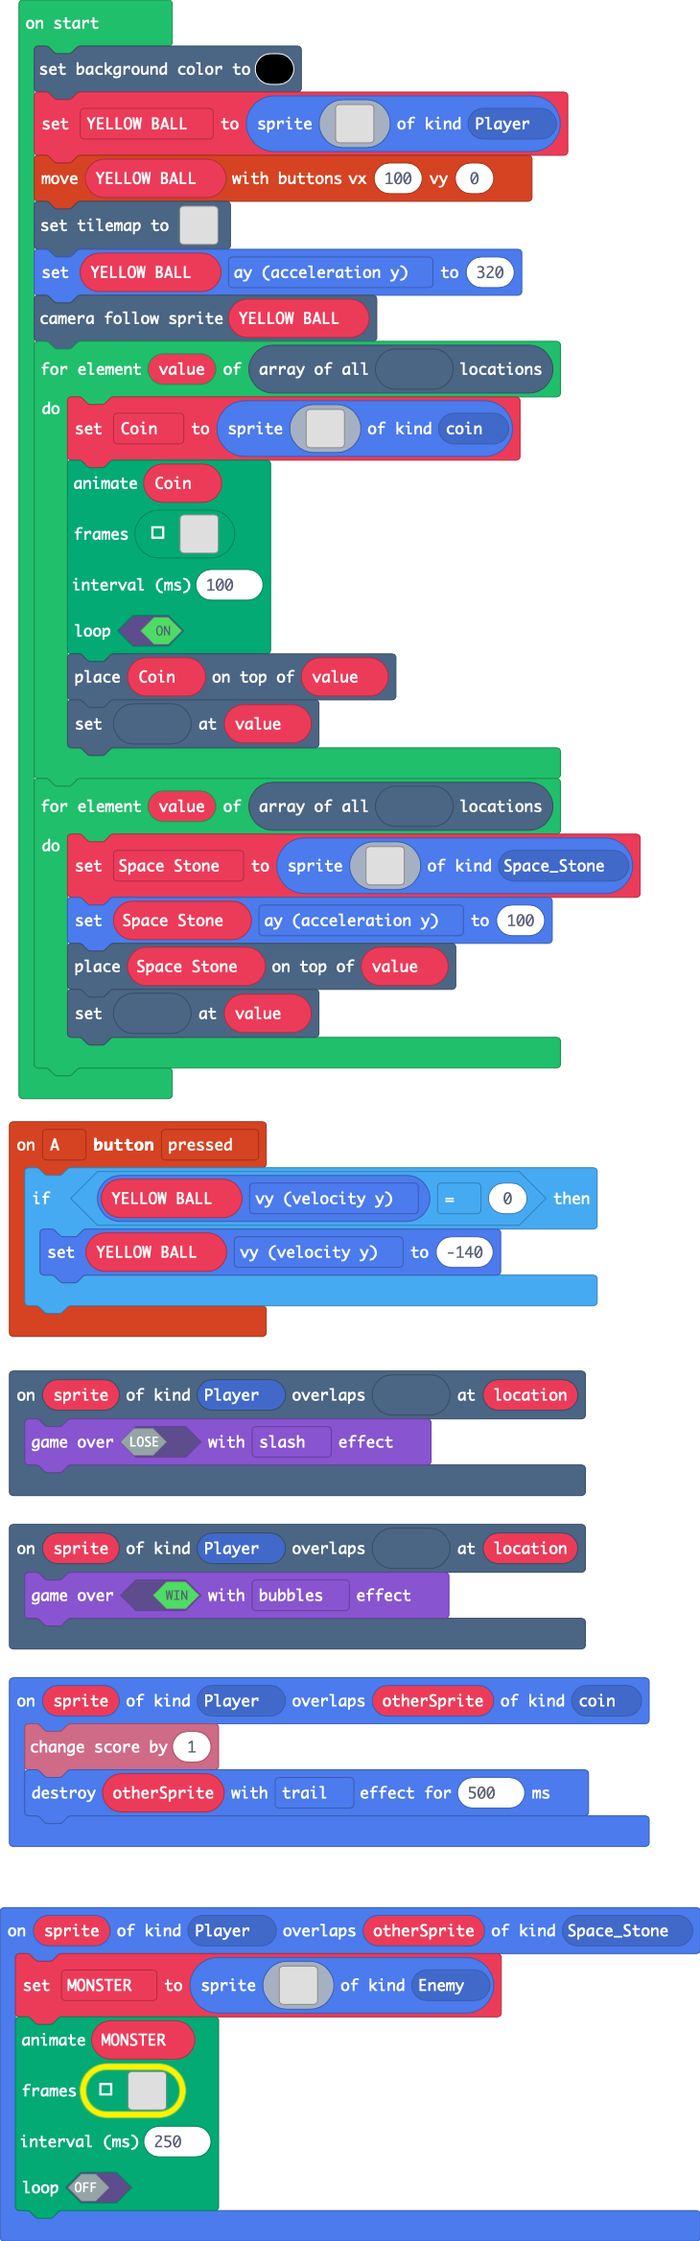
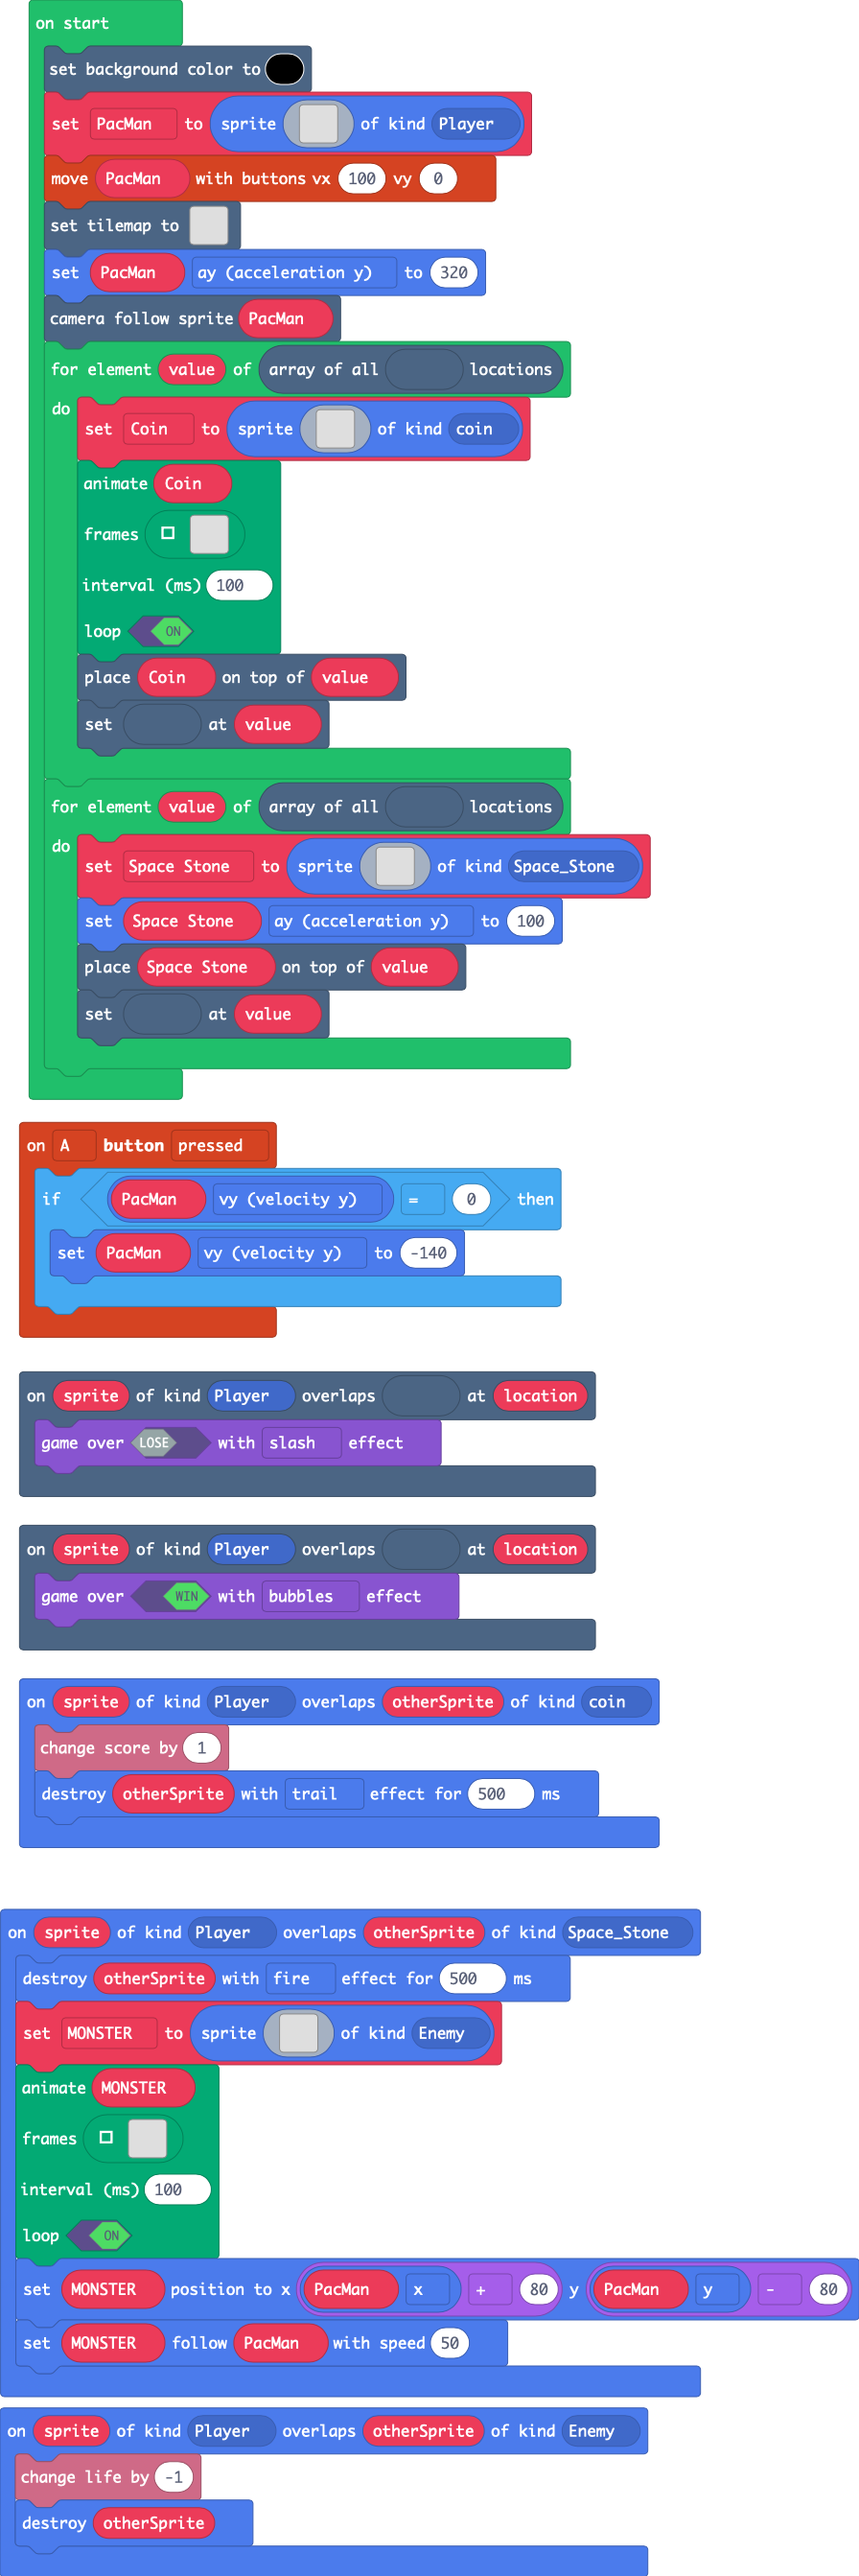
changed name and set "life Losing" and enemy now chases PacMan

diff --git a/main.ts b/main.ts
@@ -138,6 +138,7 @@ f f f f f f f f f f f f f f f f
 `
 }
 sprites.onOverlap(SpriteKind.Player, SpriteKind.Space_Stone, function (sprite, otherSprite) {
+    otherSprite.destroy(effects.fire, 500)
     MONSTER = sprites.create(img`
 . . . . . . . . . . . . . . . . 
 . . . . . . . . . . . . . . . . 
@@ -159,43 +160,45 @@ sprites.onOverlap(SpriteKind.Player, SpriteKind.Space_Stone, function (sprite, o
     animation.runImageAnimation(
     MONSTER,
     [img`
-. . . . . 2 2 2 2 2 . . . . . . 
-. . . . . 2 1 2 1 2 . . . . . . 
-. . . . . 2 2 1 2 2 . . . . . . 
-. . . . . . . 2 . . . . . . . . 
+. . . . . . . . . . . . . . . . 
 . . . . 2 2 2 2 2 2 2 . . . . . 
+. . . . 2 1 2 2 2 1 2 . . . . . 
+. . . . 2 2 2 2 2 2 2 . . . . . 
+. . . . 2 2 1 1 1 2 2 . . . . . 
+. . . . . . . 2 . . . . . . . . 
+. . . 2 2 2 2 2 2 2 2 2 . . . . 
 . . . . . . . 2 . . . . . . . . 
 . . . . . . . 2 . . . . . . . . 
 . . . . . . 2 2 2 . . . . . . . 
 . . . . . 2 2 . 2 2 . . . . . . 
-. . . . . 2 . . . 2 . . . . . . 
-. . . . . . . . . . . . . . . . 
-. . . . . . . . . . . . . . . . 
-. . . . . . . . . . . . . . . . 
+. . . . 2 2 . . . 2 2 . . . . . 
+. . . . 2 . . . . . 2 . . . . . 
 . . . . . . . . . . . . . . . . 
 . . . . . . . . . . . . . . . . 
 . . . . . . . . . . . . . . . . 
 `,img`
-. . . . . 1 1 1 1 1 . . . . . . 
-. . . . . 1 2 1 2 1 . . . . . . 
-. . . . . 1 1 2 1 1 . . . . . . 
-. . . . . . . 1 . . . . . . . . 
+. . . . . . . . . . . . . . . . 
 . . . . 1 1 1 1 1 1 1 . . . . . 
+. . . . 1 2 1 1 1 2 1 . . . . . 
+. . . . 1 1 1 1 1 1 1 . . . . . 
+. . . . 1 1 2 2 2 1 1 . . . . . 
+. . . . . . . 1 . . . . . . . . 
+. . . 1 1 1 1 1 1 1 1 1 . . . . 
 . . . . . . . 1 . . . . . . . . 
 . . . . . . . 1 . . . . . . . . 
 . . . . . . 1 1 1 . . . . . . . 
 . . . . . 1 1 . 1 1 . . . . . . 
-. . . . . 1 . . . 1 . . . . . . 
-. . . . . . . . . . . . . . . . 
-. . . . . . . . . . . . . . . . 
-. . . . . . . . . . . . . . . . 
+. . . . 1 1 . . . 1 1 . . . . . 
+. . . . 1 . . . . . 1 . . . . . 
 . . . . . . . . . . . . . . . . 
 . . . . . . . . . . . . . . . . 
 . . . . . . . . . . . . . . . . 
 `],
-    250,
-    false
+    100,
+    true
     )
+    MONSTER.setPosition(PacMan.x + 80, PacMan.y - 80)
+    MONSTER.follow(PacMan, 50)
 })
 scene.onOverlapTile(SpriteKind.Player, myTiles.tile5, function (sprite, location) {
     game.over(true, effects.bubbles)
@@ -208,16 +211,20 @@ sprites.onOverlap(SpriteKind.Player, SpriteKind.coin, function (sprite, otherSpr
     otherSprite.destroy(effects.trail, 500)
 })
 controller.A.onEvent(ControllerButtonEvent.Pressed, function () {
-    if (YELLOW_BALL.vy == 0) {
-        YELLOW_BALL.vy = -140
+    if (PacMan.vy == 0) {
+        PacMan.vy = -140
     }
+})
+sprites.onOverlap(SpriteKind.Player, SpriteKind.Enemy, function (sprite, otherSprite) {
+    info.changeLifeBy(-1)
+    otherSprite.destroy()
 })
 let MONSTER: Sprite = null
 let Space_Stone: Sprite = null
 let Coin: Sprite = null
-let YELLOW_BALL: Sprite = null
+let PacMan: Sprite = null
 scene.setBackgroundColor(15)
-YELLOW_BALL = sprites.create(img`
+PacMan = sprites.create(img`
 . . . . . . . . . . . . . . . . 
 . . . . 5 5 5 5 5 5 5 . . . . . 
 . . . 5 5 5 5 5 5 5 5 5 . . . . 
@@ -235,7 +242,7 @@ YELLOW_BALL = sprites.create(img`
 . . . . . . . . . . . . . . . . 
 . . . . . . . . . . . . . . . . 
 `, SpriteKind.Player)
-controller.moveSprite(YELLOW_BALL, 100, 0)
+controller.moveSprite(PacMan, 100, 0)
 tiles.setTilemap(tiles.createTilemap(
             hex`320028000505050505050505050505050505050505050505050505050505050505050505050505050505050505050505050505050505050505050505050505050505050505050505050505050505050505050505050505050505050505050505050505050505050505050505050505050505050505050505050505050505040505050505050505050505050505050505050505050505050406030505050505050505050505050505050505050506050504050505050505050505050505040505050505050505050505040105050505040505050505050505050505050505040101010105050505050505040506010101010105050505050605040501050501010101050504050605050505050506050501050505050605040505010101010105050505050505040505010101010505050505050505010101010505040505010101010505050505010101010505050505050505050505010101010505050505050505050505050505050505050101010505050505050505050505050505050505050505050505050505050505050505050505050505050505050505050505050505050505050505050505050505050505050505050505050505050505050505050505050505050505050505050505050505050505050505050505050505050505050505050505050505050505050505050505050505050505050505050505050505050505050505050505050505050505050505050505050505050505050505050505050505050505050505050505050505050505050505050505050505050505050505050505050505050505050505050505050505050505050505050505050505050505050505050505050505050505050505050505050505050505050505050505050505050505050505050505050505050505050505050505050505050505050505050505050505050505050505050505050505050505050505050505050505050505050505050505050505050505050505050505050505050505050505050505050505050505050505050505050505050505050505050505050505050505050505050505050505050505050505050505050505050505050505050505050505050505050505050505050505050505050505050505050505050505050505050505050505050505050505050505050505050505050505050505050505050505050505050505050505050505050505050505050505050505050505050505050505050505050505050505050505050505050505050505050505050505050505050505050505050505050505050505050505050505050505050505050505050505050505050505050505050505050505050505050505050505050505050505050505050505050505050505050505050505050505050505050505050505050505050505050505050505050505050505050505050505050505050505050505050505050505050505050505050505050505050505050505050505050505050505050505050505050505050505050505050505050505050505050505050505050505050505050505050505050505050505050505050505050505050505050505050505050505050505050505050505050505050505050505050505050505050505050505050505050505050505050505050505050505050505050505050505050505050505050505050505050505050505050505050505050505050505050505050505050505050505050505050505050505050505050505050505050505050505050505050505050505050505050505050505050505050505050505050505050505050505050505050505050505050505050505050505050505050505050505050505050505050505050505050505050505050505050505050505050505050505050505050505050505050505050505050505050505050505050505050505050505050505050505050505050505050505050505050505050505050505050505050505050505050505050505050505050505050505050505050505050505050505050505050505050505050505050505050505050505050505050505050505050505050505050505050505050505050505050505050505050505050505050505050505050505050505050505050505050505050505050505050505050505050505050505050505050505050505050505050505050505050505050505050505050505050505050505050505050505050505050505050505050505050505050505050505050505050505050505050505050505050505050505050505050505050505050505050505050505050505050505050505050505050505050505050505050505050505050505050505050505050505050505050505050505050505050505050505050505050505050505050505050505050505050505050505050505050505050505050505050505050505050505050505050505050505050505050505050505050505050505050505050505050505050505050505050505050505050505050505050505050505050505050505050505050505050505050505050505050505050505050505050505050505050505050505050505050505050505050505050505050505050505050505050505050505050505050505050505050505050505050505050505050505050505050505050505050505050505050505050505050505050505050202020202020202020202020202020202020202020202020202020202020202020202020202020202020202020202020202`,
             img`
@@ -283,8 +290,8 @@ tiles.setTilemap(tiles.createTilemap(
             [myTiles.tile0,myTiles.tile3,myTiles.tile4,myTiles.tile5,myTiles.tile6,myTiles.tile7,myTiles.tile8],
             TileScale.Sixteen
         ))
-YELLOW_BALL.ay = 320
-scene.cameraFollowSprite(YELLOW_BALL)
+PacMan.ay = 320
+scene.cameraFollowSprite(PacMan)
 for (let value of tiles.getTilesByType(myTiles.tile6)) {
     Coin = sprites.create(img`
 . . . . . . . . . . . . . . . . 
